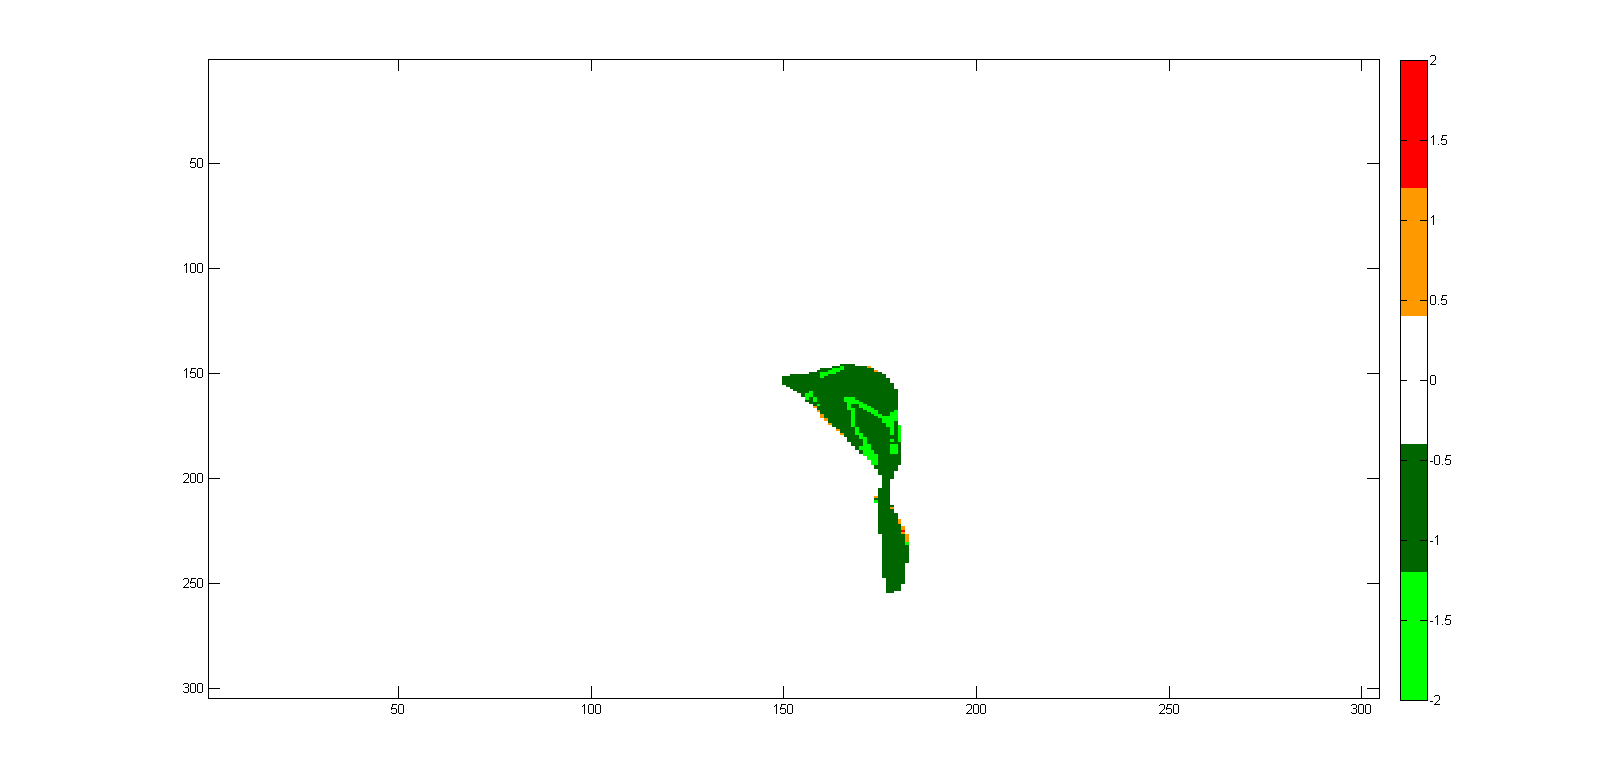
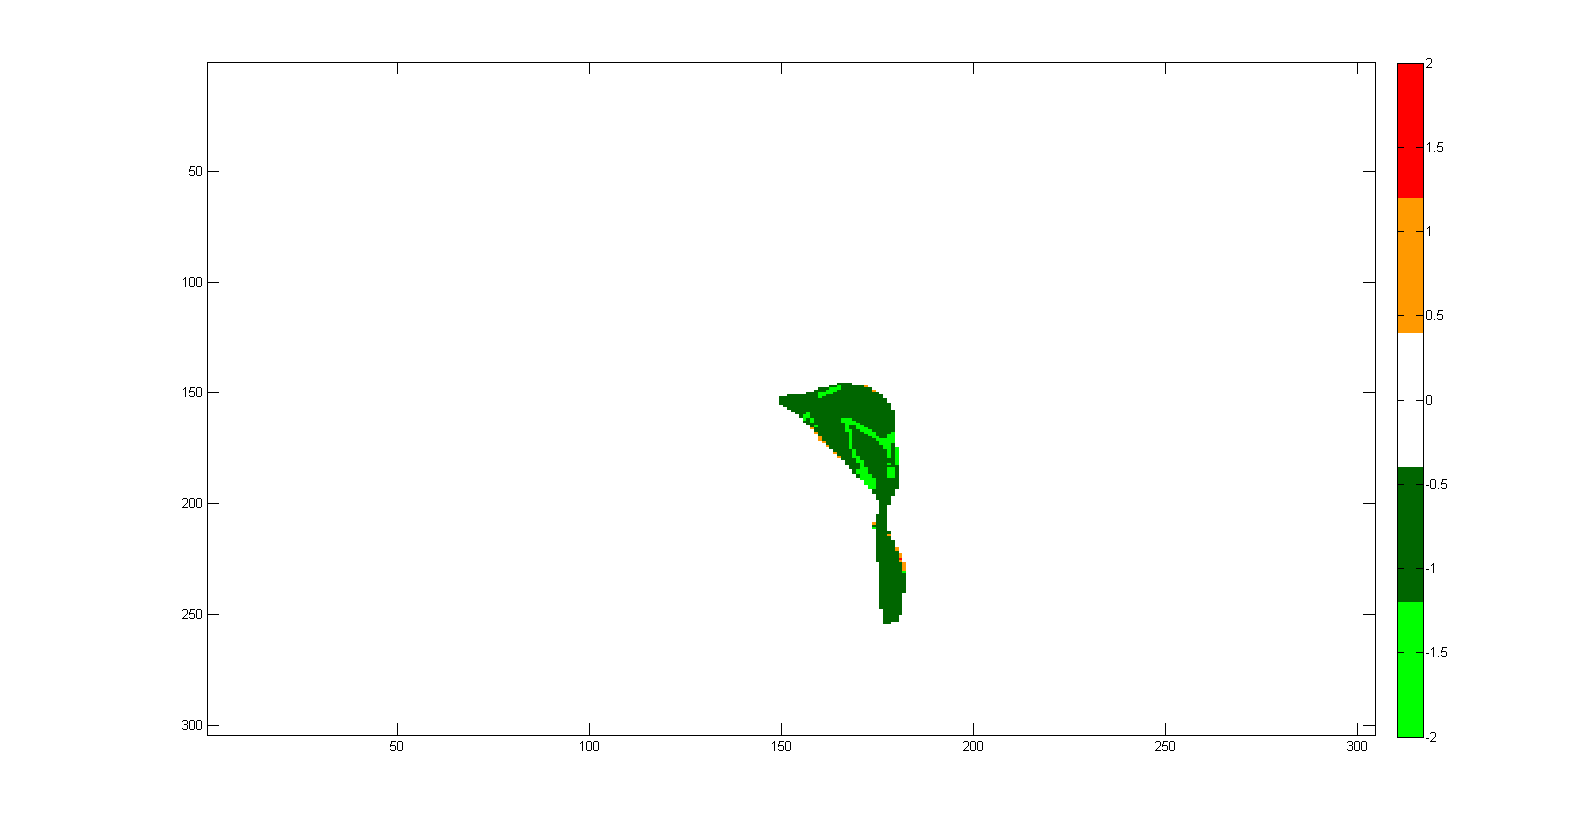
fix sizes of figures

diff --git a/Analysius/Plotius.m b/Analysius/Plotius.m
@@ -103,7 +103,7 @@ FileCfg {2,2} = 4;
 FileCfg {3,1} = 'TI'; 
 FileCfg {3,2} = 'VoxStat'; 
 TIperMag = cell (size(FileSuf, 2), size(FileFolder, 2));
-snapshotCase = [7, 2, 27 1 1.5]; %dim:1 FileSuf, dim:2 FileFolder, dim:3 Z slice, dim:4 Vmag
+snapshotCase = [4, 2, 27 0.3 0.35]; %dim:1 FileSuf, dim:2 FileFolder, dim:3 Z slice, dim:4 Vmag
 snapshot = cell(1,2);
 baseSnapshot = cell(size(FileFolder, 2), 2);
 
@@ -323,7 +323,7 @@ set (gcf, 'Units', 'normalized', 'Position', [0,0,1,1]);
 %%
 figure(11);
 imagesc(slice5);
-set (gcf, 'Units', 'normalized', 'Position', [0,0,1,1]);
+set (gcf, 'Position', [0,0,1596,826]);
 map = [0, 1.0, 0
     0, 0.4, 0
     1, 1, 1
@@ -403,9 +403,41 @@ figure(14);
 hold on;
 plot(SNR(:,1,7) ,'bo-.', 'LineWidth', 2);
 plot(SNR(:,2,7) ,'rd-', 'LineWidth', 2);
-legend('3T Mean Quantifiable', '7T Mean Quantifiable');
+legend('3T', '7T');
 set(gca, 'XTickLabel', Cases);
 xlabel('Cases');
-ylabel('m/s');
+ylabel('Variation Mean of Quantifiable Voxels (m/s)');
 
 
+%%
+figure(15);
+set (gcf, 'Units', 'normalized', 'Position', [0,0,1,1]);
+count = 0;
+vLines = [0.3 0.35];
+for k = [1 2]
+    for j = 1
+        count = count + 1;
+        subplot(1, 2, count);
+        axis([0 1.5 0 1]);
+        hold on;
+        
+        predictedTI = polyval(Lines{j,k}(1, :), TIperMag{j,k}(:,1));
+        noiseIdx1 = (predictedTI <= TIperMag{j,k}(:,2)) & (TIperMag{j,k}(:,1) >= vLines(1)) & (TIperMag{j,k}(:,1) <= vLines(2));
+        noiseIdx2 = (predictedTI <= TIperMag{j,k}(:,2)) & ((TIperMag{j,k}(:,1) < vLines(1)) | (TIperMag{j,k}(:,1) > vLines(2)));
+        signalIdx1 = (predictedTI > TIperMag{j,k}(:,2)) & (TIperMag{j,k}(:,1) >= vLines(1)) & (TIperMag{j,k}(:,1) <= vLines(2));
+        signalIdx2 = (predictedTI > TIperMag{j,k}(:,2)) & ((TIperMag{j,k}(:,1) < vLines(1)) | (TIperMag{j,k}(:,1) > vLines(2)));
+
+        plot(TIperMag{j,k}(noiseIdx2,1), TIperMag{j,k}(noiseIdx2,2), '.', 'Color', [1 0.6 0]);
+        plot(TIperMag{j,k}(signalIdx2,1), TIperMag{j,k}(signalIdx2,2), '.', 'Color', [0 0.4 0]);
+        plot(TIperMag{j,k}(noiseIdx1,1), TIperMag{j,k}(noiseIdx1,2), 'r.', 'MarkerSize', 15);
+        plot(TIperMag{j,k}(signalIdx1,1), TIperMag{j,k}(signalIdx1,2), 'g.');
+
+        line(Config{configIdx,3}(1:2), polyval(Lines{j,k}(1, :), Config{configIdx,3}(1:2)), 'Color', 'k', 'LineWidth' , 2);
+        
+        for vl = vLines
+            line([vl vl], Config{configIdx,3}(1:2), 'Color', 'k', 'LineWidth' , 1);
+        end
+
+        
+    end
+end
